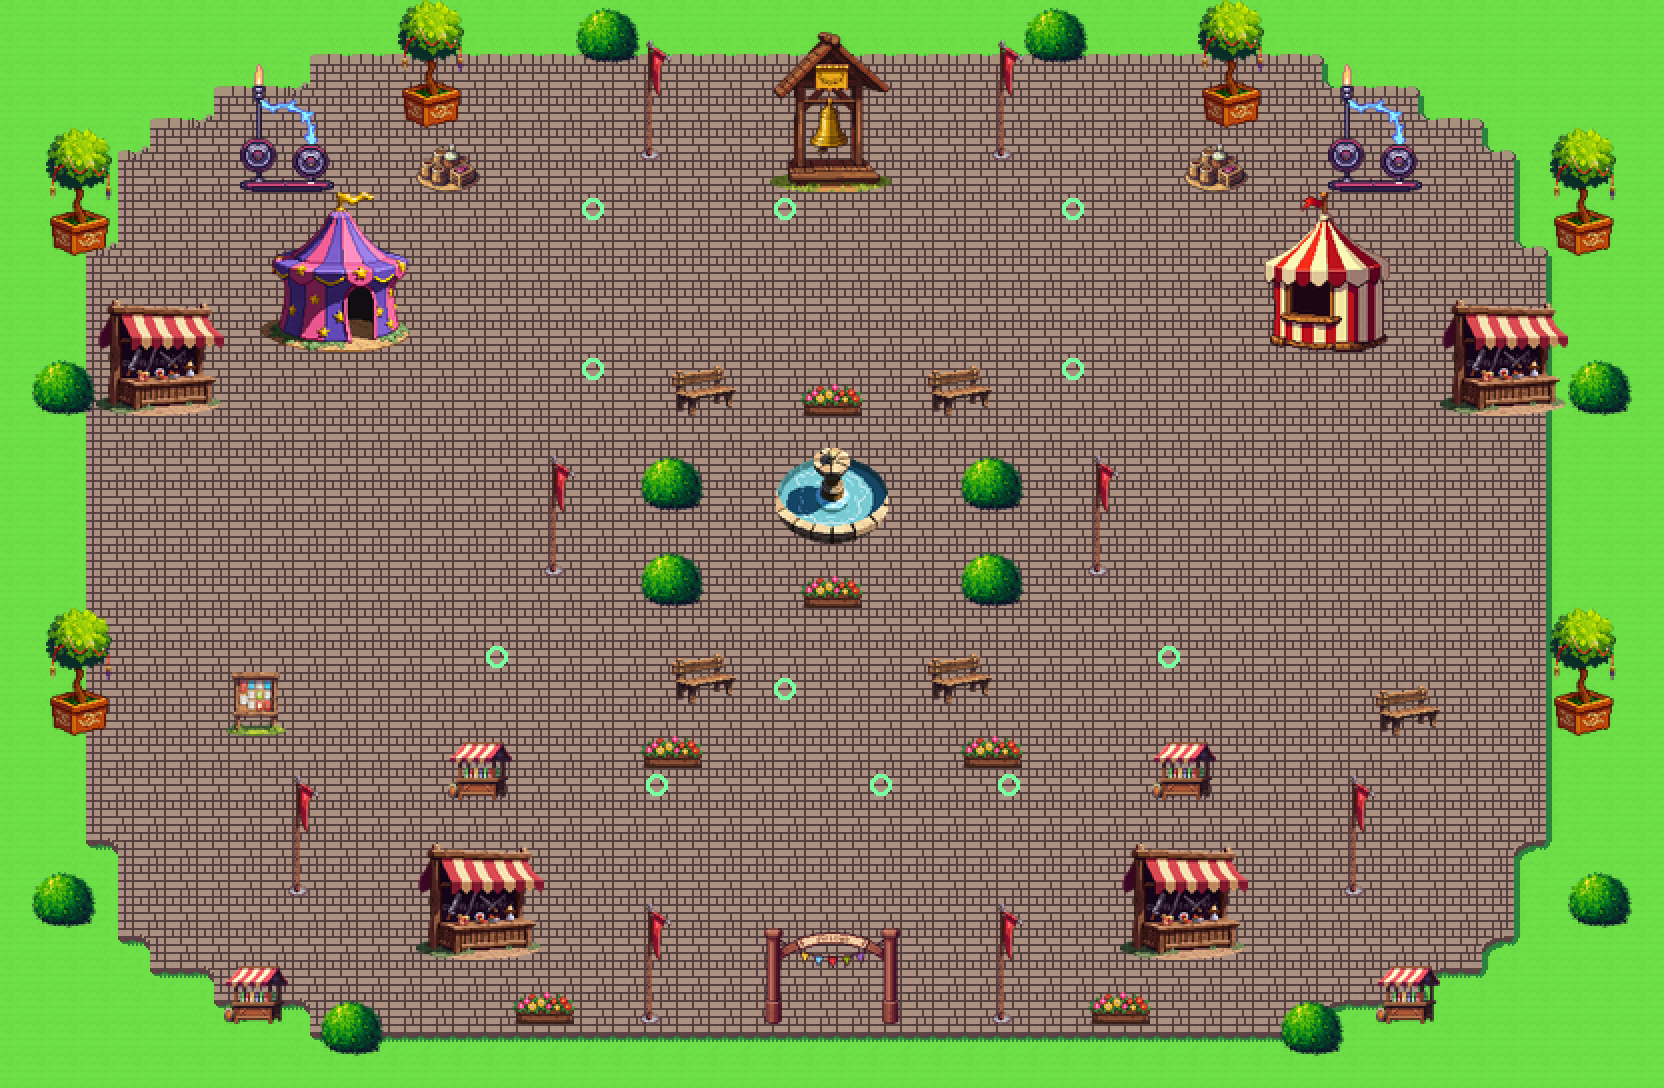
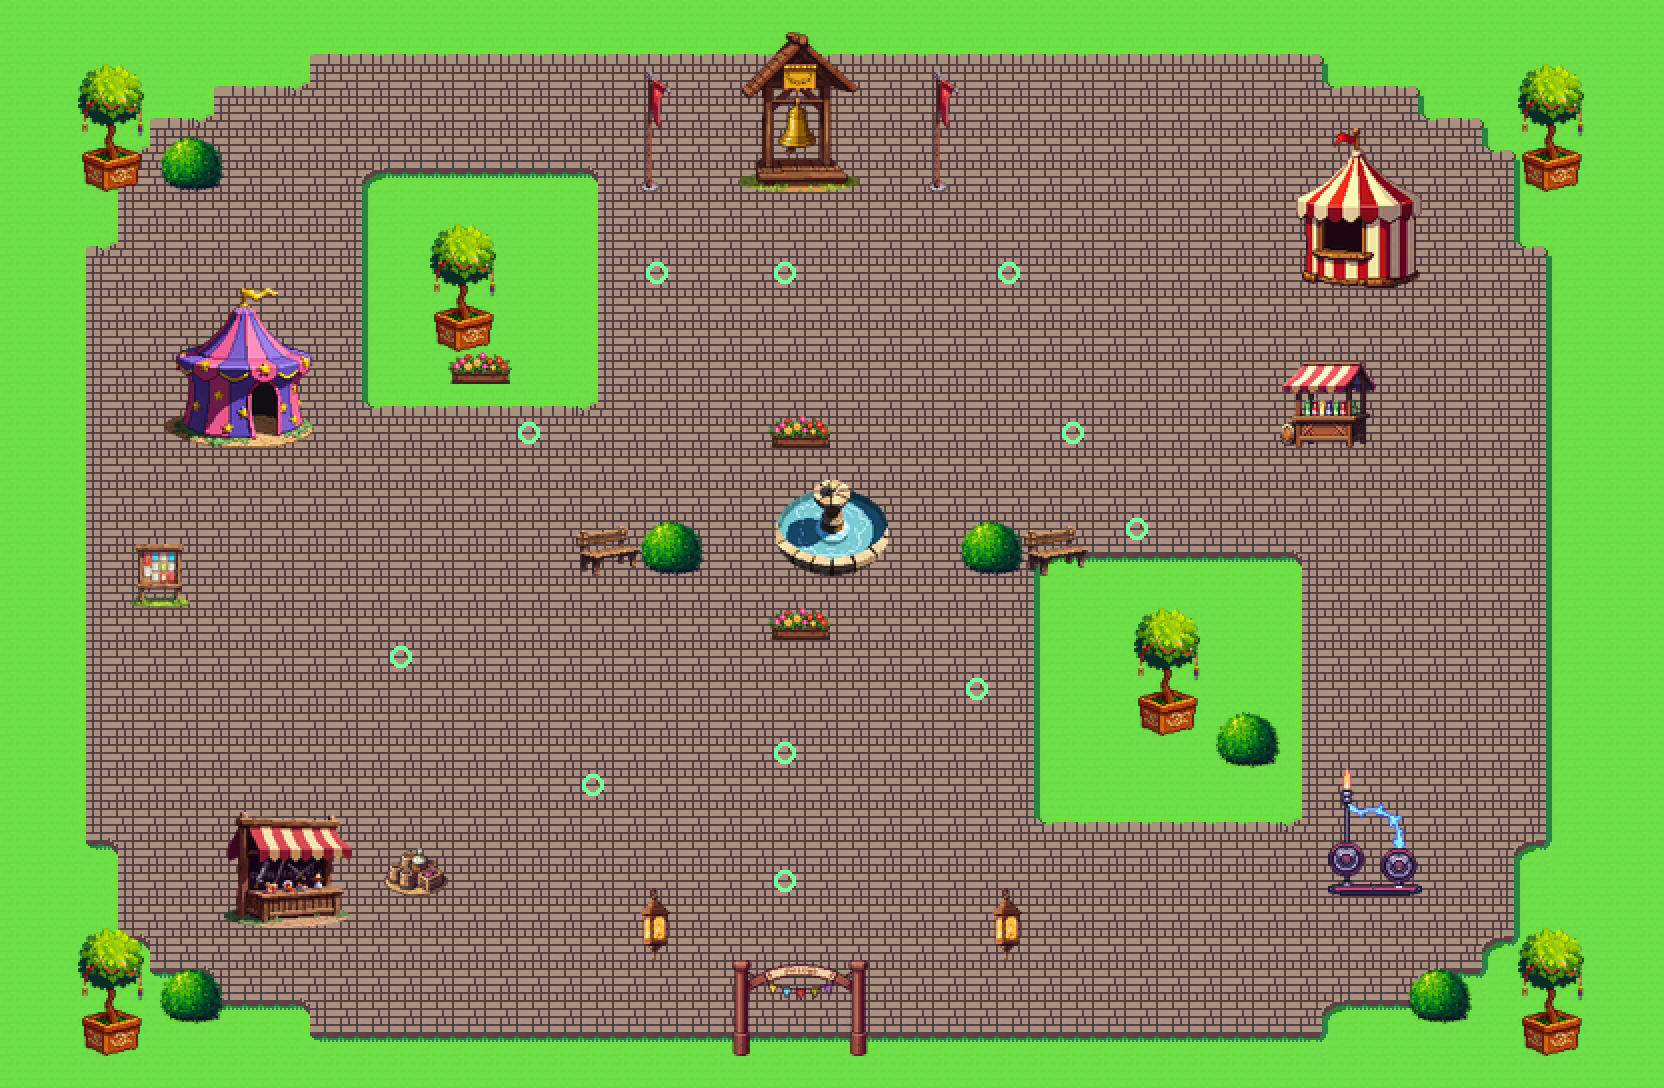
feat(space): recraft the fair — curated layout, garden beds, no clones
Go back to the drawing board on the Millennial Fair. Drop the mechanical
mirror-stamping that read as lazy/repetitive; hand-place a curated, varied
set of props into distinct areas (bell & fountain spine, Bekkler's tent +
Melchior's stall west, striped tent + cart + telepod east, arch entrance),
greenery gathered in natural corner clumps instead of a repeated ring.

Carve two grass garden beds into the stone plaza (each with a tree and
blooms) so the floor is not a uniform slab. Widen the sprite sheet
(SHEET_COLS 26) and add a guard so an oversized animation strip fails
loudly instead of silently flickering off-sheet. Carts sized up to 3×3.

Seats reduced to the two fountain benches; notice board and OfficeTest /
space-channel geometry re-pointed to the new hand-placed positions.

diff --git a/virtual.space/tools/author_fair.py b/virtual.space/tools/author_fair.py
@@ -58,7 +58,9 @@ W, H = 52, 34
 # the only edge, so there is no "void" collision. The map is larger than the
 # viewport so the camera follows the avatar and pans across the fair.
 PLAZA = {"cx": 25.5, "cy": 17.0, "rx": 23.0, "ry": 15.5, "p": 5.0}
-SHEET_COLS = 20
+# Wide enough for the widest animated frame strip (w × frames). An animated
+# 4-tile prop with 6 frames is 24 tiles; keep headroom.
+SHEET_COLS = 26
 
 # Props are sized in TILES to sit proportional to a 1x2-tile avatar (Chrono
 # Trigger scale — a person is ~2 tiles tall). `source` is a PNG (static) or an
@@ -74,7 +76,7 @@ PROPS = [
     ("fair_lantern", "anim/lantern", 1, 3, 720),
     ("fair_tent", "bekkler_tent.png", 5, 5, None),
     ("fair_stall", "melchior_stall.png", 4, 4, None),
-    ("fair_cart", "drink_cart.png", 2, 2, None),
+    ("fair_cart", "drink_cart.png", 3, 3, None),
     ("fair_tree", "tree.png", 3, 4, None),
     ("fair_arch", "arch.png", 6, 3, None),
     ("fair_board", "board.png", 2, 2, None),
@@ -88,74 +90,57 @@ PROPS = [
 
 _PROP_W = {p[0]: p[2] for p in PROPS}
 
-# When a PAIR prop is mirrored to the right half, swap it for a flipped variant
-# so directional art faces back toward the centre (e.g. benches face inward).
-FLIP_MIRROR = {"fair_bench": "fair_bench_l"}
-
 # Props you can walk through/under — only their end columns block.
 WALKTHROUGH = {"fair_arch"}
 # Low props you walk over (and sit on) — they add no collision.
 NO_COLLIDE = {"fair_bench", "fair_bench_l"}
 
-# The layout is built symmetrically about the vertical centre line (Leene Square
-# is a formal, mirrored plaza). CENTRE props sit on the axis; every PAIR entry
-# (a left-half placement) is auto-mirrored to the right; EXTRA holds the few
-# deliberately-asymmetric pieces (the two different tents, the notice board and
-# its balancing bench). Zoned top→bottom: telepod court, tent row, fountain
-# garden, market row, entrance — ringed by a dense green border of trees/hedges.
-CENTRE = [
-    ("fair_bell", 24, 1),           # Leene's Bell crowns the plaza (4x5)
-    ("fair_fountain", 24, 14),      # fountain at the dead centre (4x3)
-    ("fair_flowers", 25, 12), ("fair_flowers", 25, 18),
-    ("fair_arch", 23, 29),          # welcome arch at the foot (6x3)
+# Grass garden beds carved into the stone plaza (vertex rects x0,y0,x1,y1) so the
+# floor is not a uniform slab — each holds a tree/flowers, like a real square.
+GARDEN_BEDS = [(12, 6, 18, 12), (33, 18, 40, 25)]
+
+# Hand-placed, not mirror-stamped: each piece has a reason and a spot. The plaza
+# reads as areas — bell & fountain down the middle, Bekkler's tent and Melchior's
+# stall to the west, the striped tent, refreshments and Lucca's telepod to the
+# east, the arch at the entrance — with greenery gathered in natural clumps and
+# the two garden beds, never a repeated ring.
+DECOR = [
+    # Landmarks — the plaza's spine.
+    ("fair_bell", 23, 1),
+    ("fair_banner", 20, 2), ("fair_banner", 29, 2),
+    ("fair_fountain", 24, 15),
+    ("fair_flowers", 24, 13), ("fair_flowers", 24, 19),
+    ("fair_hedge", 20, 16), ("fair_hedge", 30, 16),
+    ("fair_bench", 18, 16), ("fair_bench_l", 32, 16),
+    # West — Bekkler's fortune tent, the notice board, Melchior's market corner.
+    ("fair_tent2", 5, 9),
+    ("fair_board", 4, 17),
+    ("fair_stall", 7, 25), ("fair_barrels", 12, 26),
+    # East — the striped tent, a refreshment cart, Lucca's telepod.
+    ("fair_tent", 40, 4), ("fair_cart", 40, 11),
+    ("fair_telepod", 41, 24),
+    # Entrance at the foot, lit by a pair of lanterns.
+    ("fair_arch", 22, 30),
+    ("fair_lantern", 20, 27), ("fair_lantern", 31, 27),
+    # Garden bed A (west) and B (east): a tree and blooms in each grass patch.
+    ("fair_tree", 13, 7), ("fair_flowers", 14, 11),
+    ("fair_tree", 35, 19), ("fair_hedge", 38, 22),
+    # Greenery gathered in corner clumps (framing, not a ring).
+    ("fair_tree", 2, 2), ("fair_hedge", 5, 4),
+    ("fair_tree", 47, 2),
+    ("fair_tree", 2, 29), ("fair_hedge", 5, 30),
+    ("fair_tree", 47, 29), ("fair_hedge", 44, 30),
 ]
-PAIR = [
-    # Telepod court (top) + banners flanking the bell.
-    ("fair_telepod", 7, 2), ("fair_banner", 20, 1), ("fair_barrels", 13, 4),
-    # Market stalls (tent row) — the big tents themselves are in EXTRA.
-    ("fair_stall", 3, 9),
-    # Fountain garden: hedges + banners frame it, benches face inward.
-    ("fair_bench", 21, 11), ("fair_hedge", 20, 14), ("fair_hedge", 20, 17),
-    ("fair_banner", 17, 14), ("fair_bench", 21, 20),
-    # Market row (lower-mid).
-    ("fair_cart", 14, 23), ("fair_banner", 9, 24), ("fair_flowers", 20, 23),
-    # Entrance stalls (bottom).
-    ("fair_stall", 13, 26), ("fair_cart", 7, 30),
-    ("fair_banner", 20, 28), ("fair_flowers", 16, 31),
-    # Dense green border ringing the plaza (trees + trimmed hedges).
-    ("fair_tree", 1, 4), ("fair_hedge", 1, 11), ("fair_tree", 1, 19),
-    ("fair_hedge", 1, 27),
-    ("fair_tree", 12, 0), ("fair_hedge", 18, 0),
-    ("fair_hedge", 10, 31),
-]
-EXTRA = [
-    ("fair_tent2", 8, 6),           # Bekkler's purple tent (left, 5x5)
-    ("fair_tent", 39, 6),           # red-and-white tent (right, 5x5)
-    ("fair_board", 7, 21),          # notice board (left, interactable)
-    ("fair_bench_l", 43, 21),       # bench balancing the board (right, flipped)
-]
 
-
-def _decor():
-    out = list(CENTRE)
-    for name, c, r in PAIR:
-        out.append((name, c, r))
-        out.append((FLIP_MIRROR.get(name, name), W - c - _PROP_W[name], r))
-    out += EXTRA
-    return out
-
-
-DECOR = _decor()
-
-# Spawns spread across the open plaza bands, clear of props. The first entry is
-# where a lone joiner lands (and the notice-board test walks from).
+# Spawns in the open plaza, clear of props. The first entry is where a lone
+# joiner lands (and the notice-board test walks from).
 SPAWN = [
-    {"x": 24, "y": 21, "dir": "up"},
-    {"x": 18, "y": 6, "dir": "down"}, {"x": 33, "y": 6, "dir": "down"},
-    {"x": 18, "y": 11, "dir": "down"}, {"x": 33, "y": 11, "dir": "down"},
-    {"x": 15, "y": 20, "dir": "right"}, {"x": 36, "y": 20, "dir": "left"},
-    {"x": 20, "y": 24, "dir": "up"}, {"x": 31, "y": 24, "dir": "up"},
-    {"x": 24, "y": 6, "dir": "down"}, {"x": 27, "y": 24, "dir": "up"},
+    {"x": 24, "y": 8, "dir": "down"},
+    {"x": 16, "y": 13, "dir": "right"}, {"x": 33, "y": 13, "dir": "left"},
+    {"x": 12, "y": 20, "dir": "down"}, {"x": 24, "y": 23, "dir": "up"},
+    {"x": 30, "y": 21, "dir": "up"}, {"x": 18, "y": 24, "dir": "up"},
+    {"x": 35, "y": 16, "dir": "left"}, {"x": 20, "y": 8, "dir": "down"},
+    {"x": 31, "y": 8, "dir": "down"}, {"x": 24, "y": 27, "dir": "up"},
 ]
 
 
@@ -208,6 +193,11 @@ def _compose_sheet():
     for name, source, w, h, period in PROPS:
         ims = _load_frames(source)
         span = w * len(ims)
+        if span > SHEET_COLS:
+            raise ValueError(
+                f"{name} strip is {span} tiles wide but SHEET_COLS={SHEET_COLS}; "
+                "frames would fall off the sheet and flicker — widen SHEET_COLS"
+            )
         if cx + span > SHEET_COLS:
             cx, cy, shelf_h = 0, cy + shelf_h, 0
         _pack_prop(sheet, ims, cx, cy, w, h)
@@ -236,6 +226,12 @@ def _plaza_grid():
             n = sum(g[y + dy][x + dx] for dy in (-1, 0, 1) for dx in (-1, 0, 1)
                     if 0 <= x + dx <= W and 0 <= y + dy <= H)
             out[y][x] = 1 if n >= 6 else (0 if n <= 2 else g[y][x])
+    # Carve grass garden beds back into the stone (0 = grass vertices).
+    for x0, y0, x1, y1 in GARDEN_BEDS:
+        for y in range(y0, y1 + 1):
+            for x in range(x0, x1 + 1):
+                if 0 <= x <= W and 0 <= y <= H:
+                    out[y][x] = 0
     return out
 
 
